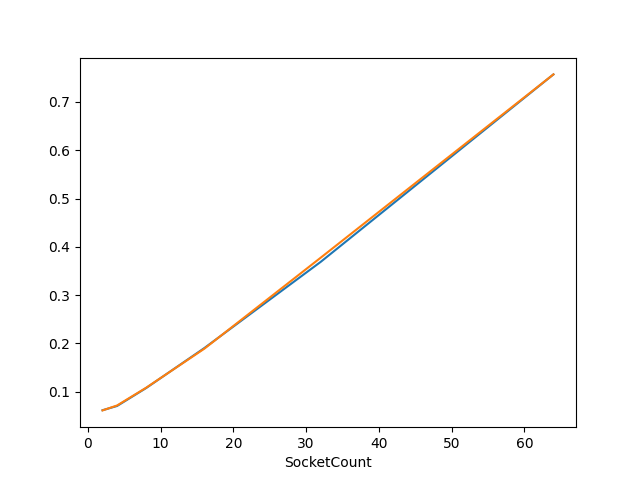
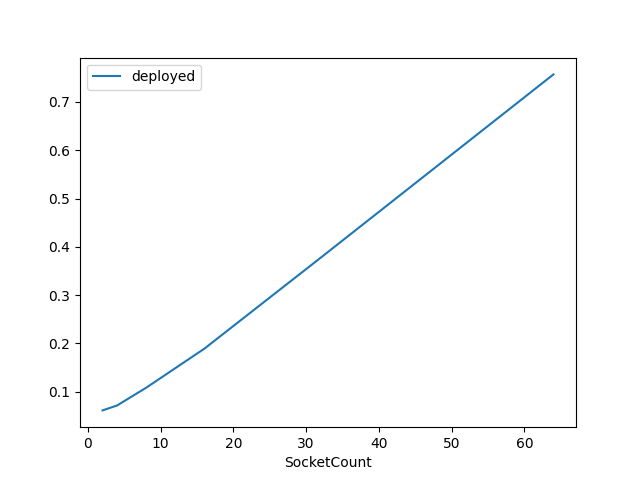
new figs

diff --git a/performance_test/plot.py b/performance_test/plot.py
@@ -55,10 +55,13 @@ class Plotter:
     #data = pd.concat([deployed_data, undeployed_data], axis=1)
     #data.columns = ["deployed", "undeployed"]
     #return data
-    return deployed_data
+    data = pd.DataFrame(deployed_data)
+    data.columns = ["deployed"]
+    return data
 
   def plot(self, jitter, param, default, percent):
     data = self.select_data(jitter, param, default, percent)
+    print(data)
     plot = data.plot()
     fig = plot.get_figure()
     fig.savefig("figs/new_jitter={}_param={}_percent={}.png".format(jitter, param, percent))
